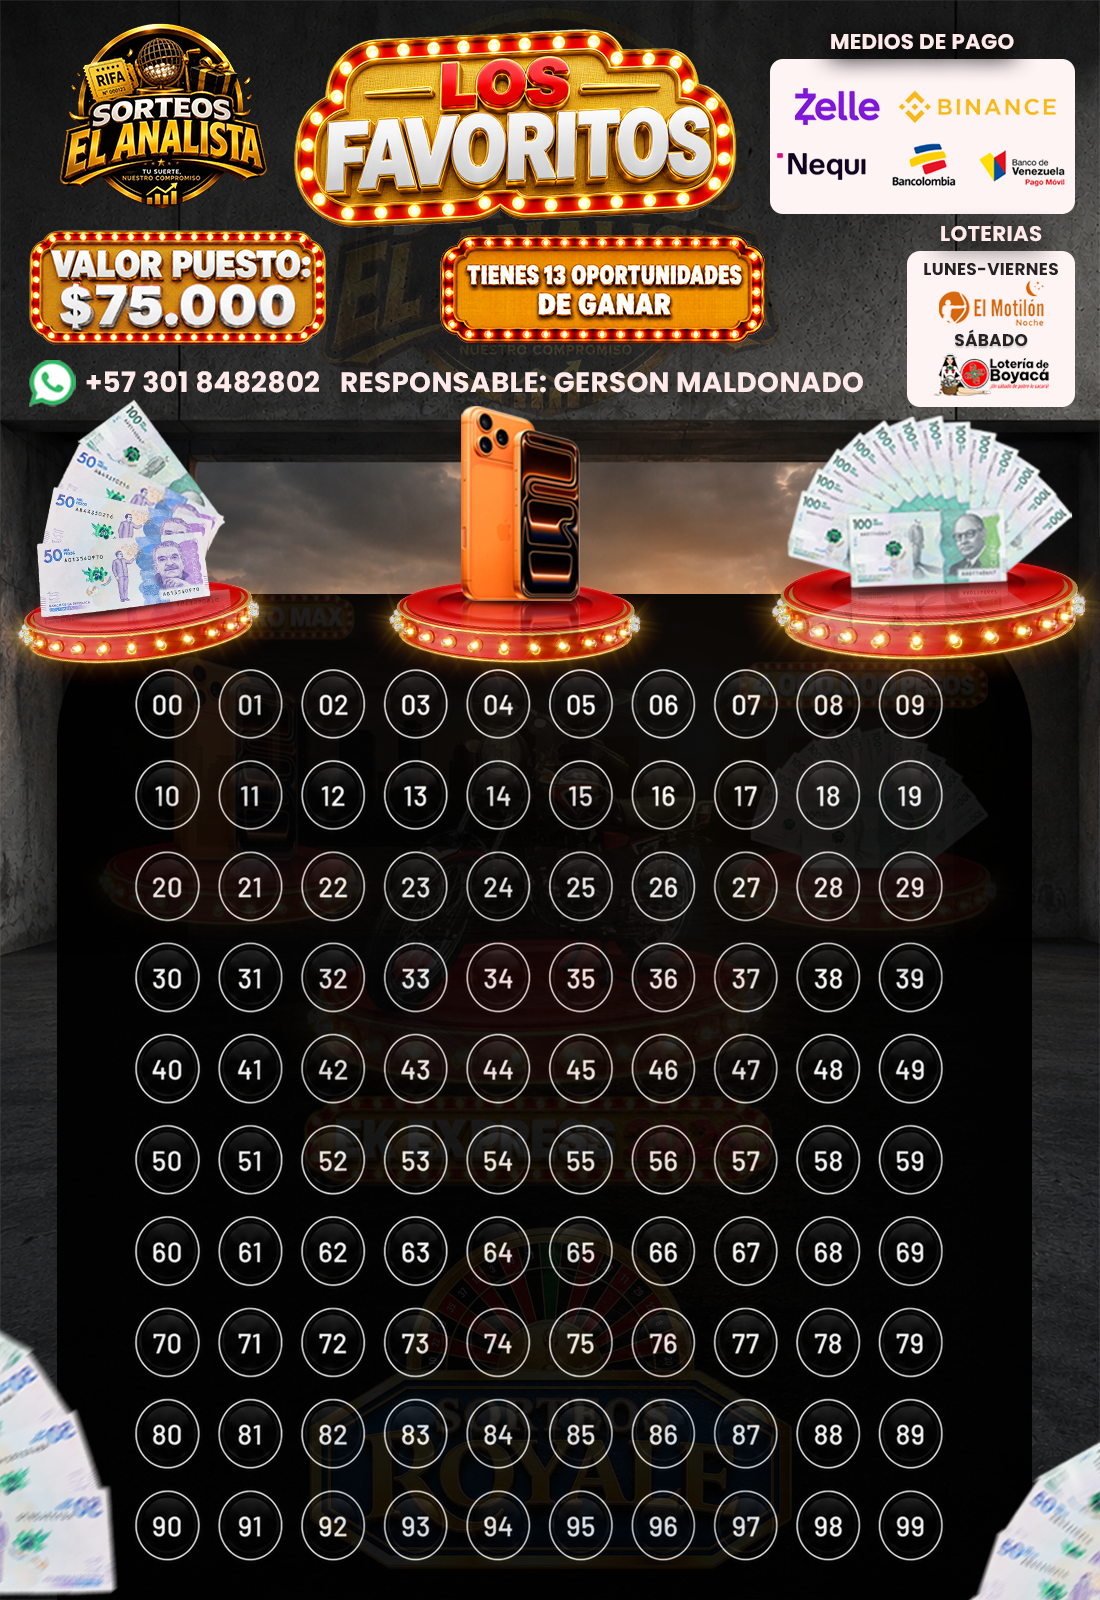
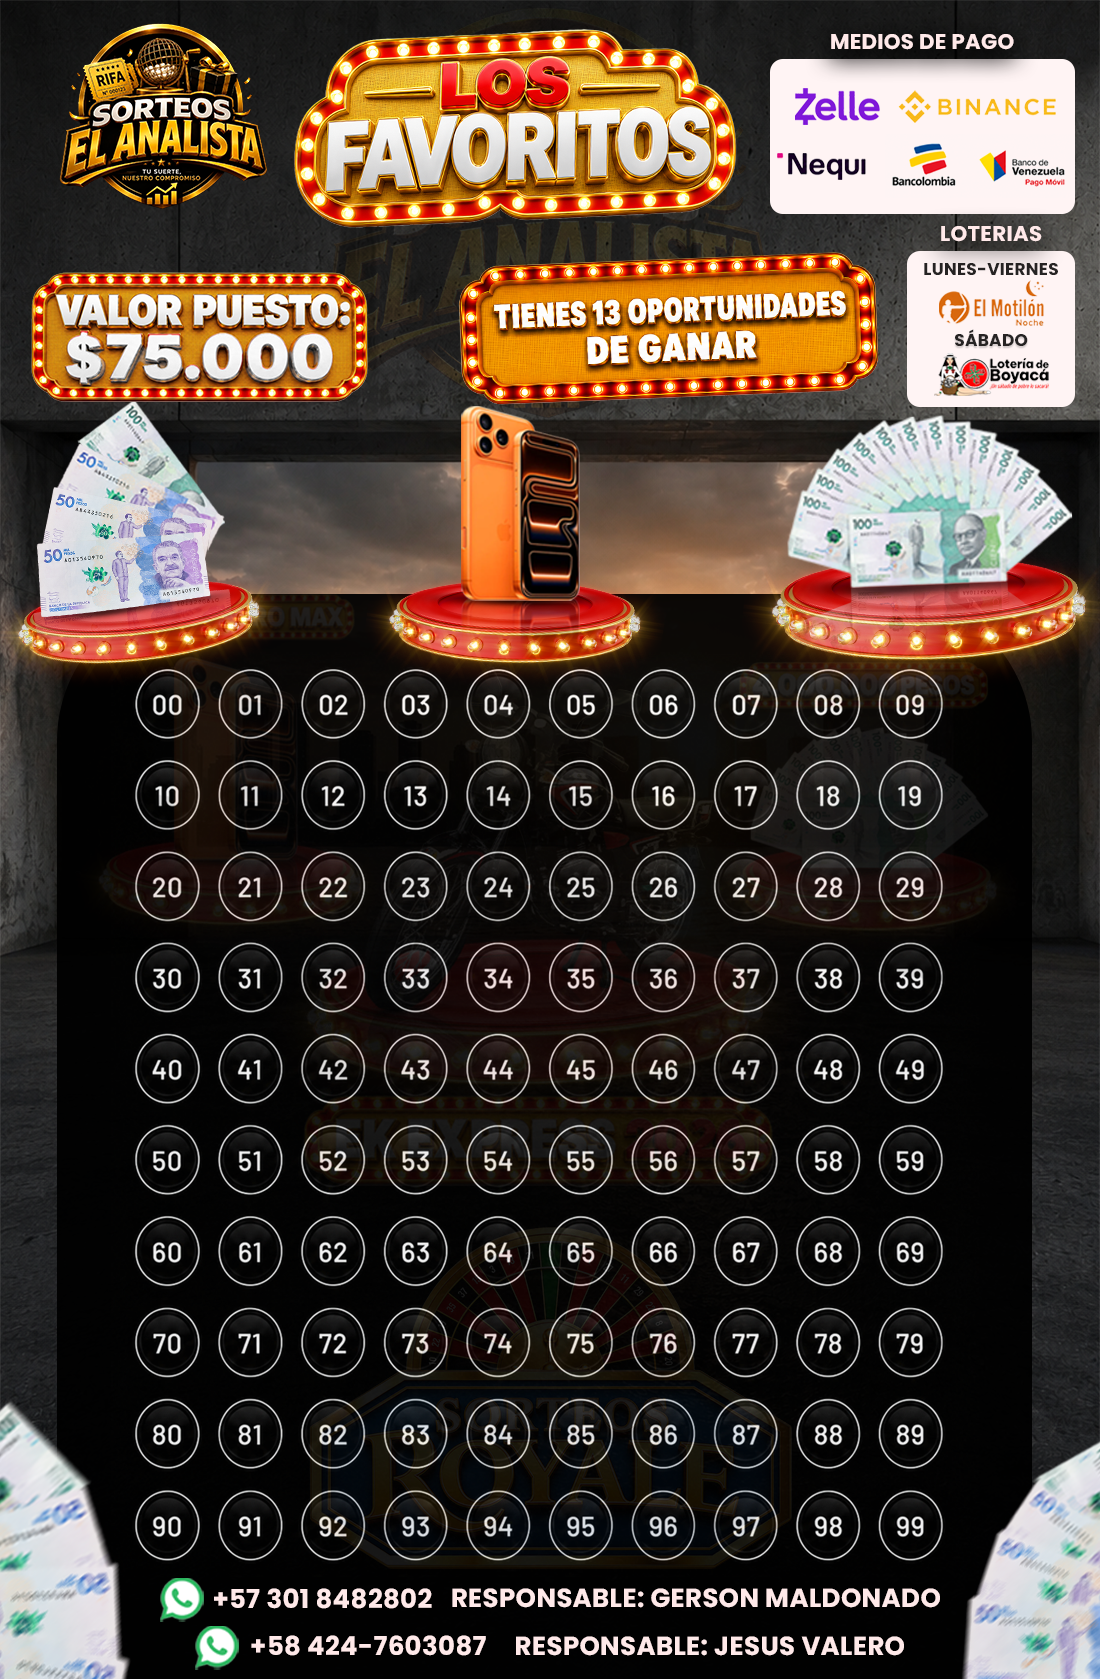
Cartón con plantilla oficial, filtro por estado y envío por WhatsApp del comprobante
- Plantilla nueva del cartón (numeros.png) con el número visible encima del
  círculo rojo en los puestos ocupados y leyenda sin contactos duplicados.
- Filtro de participantes por estado (chips con conteos + listado agrupado)
  que además resalta el cartón y filtra el historial de boletos.
- Botón ENVIAR POR WHATSAPP en el boleto: se activa al generar el comprobante,
  redirige al teléfono registrado con el mensaje oficial y adjunta el PNG.

🤖 Generated with Codebuff

diff --git a/src/components/rifa/FiltroEstados.tsx b/src/components/rifa/FiltroEstados.tsx
@@ -1,0 +1,146 @@
+import { useMemo } from "react";
+import { pad2, type EstadoBoleto } from "@/lib/rifa";
+import type { Fila } from "@/lib/fila";
+import { cn } from "@/lib/utils";
+
+export type FiltroEstado = EstadoBoleto | "TODOS";
+
+export const ESTADOS: EstadoBoleto[] = [
+  "DISPONIBLE",
+  "APARTADO",
+  "PRIMER ABONO",
+  "PRIMER TRAMO COMPLETADO",
+  "PAGADO",
+];
+
+const chipActivo: Record<EstadoBoleto, string> = {
+  DISPONIBLE: "border-white bg-white/15 text-white",
+  APARTADO: "border-sky-400 bg-sky-400/25 text-sky-200",
+  "PRIMER ABONO": "border-gold bg-gold-plate text-primary-foreground",
+  "PRIMER TRAMO COMPLETADO": "border-orange-400 bg-orange-400/25 text-orange-200",
+  PAGADO: "border-estado-pagado bg-estado-pagado/25 text-estado-pagado",
+};
+
+const chipInactivo: Record<EstadoBoleto, string> = {
+  DISPONIBLE: "border-white/40 bg-black/40 text-white/75 hover:border-white hover:text-white",
+  APARTADO:
+    "border-sky-400/50 bg-sky-400/8 text-sky-300/80 hover:border-sky-400 hover:text-sky-200",
+  "PRIMER ABONO": "border-gold/60 bg-gold/10 text-gold/85 hover:border-gold hover:text-gold",
+  "PRIMER TRAMO COMPLETADO":
+    "border-orange-400/50 bg-orange-400/8 text-orange-300/80 hover:border-orange-400 hover:text-orange-200",
+  PAGADO:
+    "border-estado-pagado/50 bg-estado-pagado/8 text-estado-pagado/80 hover:border-estado-pagado hover:text-estado-pagado",
+};
+
+const chipNumero: Record<EstadoBoleto, string> = {
+  DISPONIBLE: "border-white/50 text-white/80",
+  APARTADO: "border-sky-400/60 text-sky-300",
+  "PRIMER ABONO": "border-gold/70 text-gold",
+  "PRIMER TRAMO COMPLETADO": "border-orange-400/60 text-orange-300",
+  PAGADO: "border-estado-pagado/70 text-estado-pagado",
+};
+
+export function FiltroEstados({
+  filas,
+  filtro,
+  onChange,
+}: {
+  filas: Fila[];
+  filtro: FiltroEstado;
+  onChange: (f: FiltroEstado) => void;
+}) {
+  const conteos = useMemo(() => {
+    const c: Record<EstadoBoleto, number> = {
+      DISPONIBLE: 100 - filas.length,
+      APARTADO: 0,
+      "PRIMER ABONO": 0,
+      "PRIMER TRAMO COMPLETADO": 0,
+      PAGADO: 0,
+    };
+    for (const f of filas) c[f.resumen.estado] += 1;
+    return c;
+  }, [filas]);
+
+  const listado = useMemo(() => {
+    const seleccion = filtro === "TODOS" ? filas : filas.filter((f) => f.resumen.estado === filtro);
+    const porNombre = new Map<string, Fila[]>();
+    for (const f of seleccion) {
+      const arr = porNombre.get(f.boleto.nombre) ?? [];
+      arr.push(f);
+      porNombre.set(f.boleto.nombre, arr);
+    }
+    return [...porNombre.entries()].sort((a, b) => a[0].localeCompare(b[0], "es"));
+  }, [filas, filtro]);
+
+  return (
+    <div className="rounded-lg border border-border/70 bg-card/80 p-3 shadow-sm">
+      <p className="text-[10px] font-bold tracking-widest text-muted-foreground">
+        FILTRAR PARTICIPANTES POR ESTADO
+      </p>
+
+      <div className="mt-2 flex flex-wrap gap-1.5">
+        <button
+          type="button"
+          onClick={() => onChange("TODOS")}
+          aria-pressed={filtro === "TODOS"}
+          className={cn(
+            "rounded-full border px-2.5 py-1 text-[11px] font-bold tracking-wide transition-colors",
+            "focus-visible:ring-2 focus-visible:ring-ring focus-visible:outline-none",
+            filtro === "TODOS"
+              ? "border-gold bg-gold/20 text-gold"
+              : "border-border/70 bg-black/30 text-muted-foreground hover:border-gold/60 hover:text-gold",
+          )}
+        >
+          TODOS
+        </button>
+        {ESTADOS.map((e) => (
+          <button
+            key={e}
+            type="button"
+            onClick={() => onChange(e)}
+            aria-pressed={filtro === e}
+            className={cn(
+              "rounded-full border px-2.5 py-1 text-[11px] font-bold tracking-wide transition-colors",
+              "focus-visible:ring-2 focus-visible:ring-ring focus-visible:outline-none",
+              filtro === e ? chipActivo[e] : chipInactivo[e],
+            )}
+          >
+            {e} ({conteos[e]})
+          </button>
+        ))}
+      </div>
+
+      <div className="mt-3 max-h-72 space-y-1.5 overflow-y-auto pr-1">
+        {listado.length === 0 ? (
+          <p className="rounded-md bg-black/25 px-2 py-3 text-center text-xs text-muted-foreground">
+            No hay participantes con este estado.
+          </p>
+        ) : (
+          listado.map(([nombre, fs]) => (
+            <div
+              key={nombre}
+              className="flex items-baseline justify-between gap-2 rounded-md bg-black/30 px-2 py-1.5"
+            >
+              <span className="truncate text-xs font-bold">{nombre}</span>
+              <span className="flex flex-wrap justify-end gap-1">
+                {fs
+                  .sort((a, b) => a.boleto.numero - b.boleto.numero)
+                  .map((f) => (
+                    <span
+                      key={f.boleto.id}
+                      className={cn(
+                        "rounded border px-1 py-0.5 text-[10px] font-black tabular-nums",
+                        chipNumero[f.resumen.estado],
+                      )}
+                    >
+                      {pad2(f.boleto.numero)}
+                    </span>
+                  ))}
+              </span>
+            </div>
+          ))
+        )}
+      </div>
+    </div>
+  );
+}

diff --git a/src/components/rifa/BoletoDialog.tsx b/src/components/rifa/BoletoDialog.tsx
@@ -44,6 +44,28 @@ type Props = {
   usuario?: string;
 };
 
+/** Mensaje oficial de bienvenida por WhatsApp. `__________` se reemplaza por el nombre. */
+function mensajeWhatsApp(nombre: string) {
+  return `🎉 ¡Mucha suerte, ${nombre} ! 🍀
+
+Gracias por escoger tu número en Sorteos El Analista. 🙌🔥
+
+Ya tu número queda registrado ✅
+Te adjunto la imagen como comprobante de tu participación.
+
+🍀 ¡Muchísima suerte y que ese número sea el ganador! 🏆🎉
+
+¡Gracias por confiar en nosotros! ❤`;
+}
+
+function IconoWhatsApp({ className }: { className?: string }) {
+  return (
+    <svg viewBox="0 0 24 24" fill="currentColor" className={className} aria-hidden="true">
+      <path d="M17.472 14.382c-.297-.149-1.758-.867-2.03-.967-.273-.099-.471-.148-.67.15-.197.297-.767.966-.94 1.164-.173.199-.347.223-.644.075-.297-.15-1.255-.463-2.39-1.475-.883-.788-1.48-1.761-1.653-2.059-.173-.297-.018-.458.13-.606.134-.133.298-.347.446-.52.149-.174.198-.298.298-.497.099-.198.05-.371-.025-.52-.075-.149-.669-1.612-.916-2.207-.242-.579-.487-.5-.669-.51-.173-.008-.371-.01-.57-.01-.198 0-.52.074-.792.372-.272.297-1.04 1.016-1.04 2.479 0 1.462 1.065 2.875 1.213 3.074.149.198 2.096 3.2 5.077 4.487.709.306 1.262.489 1.694.625.712.227 1.36.195 1.871.118.571-.085 1.758-.719 2.006-1.413.248-.694.248-1.289.173-1.413-.074-.124-.272-.198-.57-.347m-5.421 7.403h-.004a9.87 9.87 0 01-5.031-1.378l-.361-.214-3.741.982.998-3.648-.235-.374a9.86 9.86 0 01-1.51-5.26c.001-5.45 4.436-9.884 9.888-9.884 2.64 0 5.122 1.03 6.988 2.898a9.825 9.825 0 012.893 6.994c-.003 5.45-4.437 9.884-9.885 9.884m8.413-18.297A11.815 11.815 0 0012.05 0C5.495 0 .16 5.335.157 11.892c0 2.096.547 4.142 1.588 5.945L.057 24l6.305-1.654a11.882 11.882 0 005.683 1.448h.005c6.554 0 11.89-5.335 11.893-11.893a11.821 11.821 0 00-3.48-8.413Z" />
+    </svg>
+  );
+}
+
 function TramoBarra({
   titulo,
   valor,
@@ -278,6 +300,46 @@ export function BoletoDialog({ numero, fila, onClose, onChanged, usuario }: Prop
     } catch {
       /* cancelado por el usuario */
     }
+  };
+
+  /** Envía el comprobante + mensaje oficial por WhatsApp al teléfono registrado. */
+  const whatsapp = async () => {
+    const tel = (telefono || boleto?.telefono || "").replace(/\D/g, "");
+    if (!tel) {
+      toast.error("Registra el teléfono del participante para enviar por WhatsApp");
+      return;
+    }
+    const nombreFinal = (nombre || boleto?.nombre || "").trim();
+    if (!nombreFinal) {
+      toast.error("Escribe el nombre del participante");
+      return;
+    }
+    const mensaje = mensajeWhatsApp(nombreFinal);
+    try {
+      const blob = await comprobanteBlob(datosComprobante);
+      const file = new File(
+        [blob],
+        nombreArchivo({ numero: datosComprobante.numero, nombre: datosComprobante.nombre }),
+        { type: "image/png" },
+      );
+      // En móvil, el share nativo adjunta la imagen y WhatsApp aparece en la hoja.
+      if (navigator.canShare?.({ files: [file] })) {
+        try {
+          await navigator.share({
+            files: [file],
+            text: mensaje,
+            title: `Boleto ${pad2(datosComprobante.numero)}`,
+          });
+          return;
+        } catch (e) {
+          if ((e as Error)?.name === "AbortError") return; // cancelado por el usuario
+        }
+      }
+    } catch {
+      /* si falla el comprobante, se abre WhatsApp igual con el mensaje */
+    }
+    // Escritorio: abre el chat del número con el mensaje ya escrito.
+    window.open(`https://wa.me/${tel}?text=${encodeURIComponent(mensaje)}`, "_blank");
   };
 
   return (
@@ -529,6 +591,20 @@ export function BoletoDialog({ numero, fila, onClose, onChanged, usuario }: Prop
                     <Share2 /> COMPARTIR
                   </Button>
                 </div>
+                <Button
+                  onClick={whatsapp}
+                  disabled={!preview || !telefono.trim()}
+                  title={
+                    !preview
+                      ? "Genera primero el comprobante para activar el envío"
+                      : !telefono.trim()
+                        ? "Registra el teléfono del participante para enviar por WhatsApp"
+                        : "Enviar mensaje y comprobante por WhatsApp"
+                  }
+                  className="bg-[#25D366] text-black hover:bg-[#1fbd5a]"
+                >
+                  <IconoWhatsApp className="size-4" /> ENVIAR POR WHATSAPP
+                </Button>
               </div>
             </div>
           </div>

diff --git a/src/lib/carton.ts b/src/lib/carton.ts
@@ -2,12 +2,12 @@ import numerosAsset from "@/assets/numeros.png";
 import { pad2 } from "./rifa";
 
 /**
- * Carton publico 00-99 sobre la plantilla oficial (1100 x 1600).
+ * Carton publico 00-99 sobre la plantilla oficial (1100 x 1679).
  * Para el publico solo existen dos estados: DISPONIBLE u OCUPADO.
  * Cualquier numero apartado o con algun abono se marca OCUPADO.
  */
 const W = 1100;
-const ARTE_H = 1600;
+const ARTE_H = 1679;
 const LEYENDA_H = 190;
 const H = ARTE_H + LEYENDA_H;
 
@@ -63,49 +63,22 @@ function marcarOcupado(ctx: CanvasRenderingContext2D, n: number) {
   ctx.strokeStyle = "rgba(255,255,255,0.85)";
   ctx.stroke();
 
-  ctx.font = '900 34px Montserrat, "Arial Black", sans-serif';
+  // El numero del puesto va encima del circulo rojo.
   ctx.textAlign = "center";
   ctx.textBaseline = "middle";
+  ctx.font = '900 40px Montserrat, "Arial Black", sans-serif';
+  ctx.shadowColor = "rgba(0,0,0,0.6)";
+  ctx.shadowBlur = 5;
+  ctx.shadowOffsetY = 2;
   ctx.fillStyle = BLANCO;
-  ctx.fillText(pad2(n), x, y + 2);
+  ctx.fillText(pad2(n), x, y + 1);
+  ctx.shadowColor = "transparent";
+  ctx.shadowBlur = 0;
+  ctx.shadowOffsetY = 0;
 }
 
-const VERDE_WA = "#25d366";
-
-function iconoWhatsApp(ctx: CanvasRenderingContext2D, x: number, y: number, r = 15) {
-  ctx.beginPath();
-  ctx.arc(x, y, r, 0, Math.PI * 2);
-  ctx.fillStyle = VERDE_WA;
-  ctx.fill();
-  ctx.font = '900 15px Montserrat, "Arial Black", sans-serif';
-  ctx.textAlign = "center";
-  ctx.textBaseline = "middle";
-  ctx.fillStyle = BLANCO;
-  ctx.fillText("WA", x, y + 1);
-}
-
-function contacto(
-  ctx: CanvasRenderingContext2D,
-  x: number,
-  y: number,
-  numero: string,
-  nombre: string,
-) {
-  iconoWhatsApp(ctx, x, y);
-  ctx.textAlign = "left";
-  ctx.textBaseline = "middle";
-  ctx.font = '800 22px Montserrat, "Arial Black", sans-serif';
-  ctx.fillStyle = BLANCO;
-  ctx.fillText(numero, x + 24, y);
-  const wNum = ctx.measureText(numero).width;
-  ctx.font = '800 18px Montserrat, "Arial Black", sans-serif';
-  ctx.fillStyle = ORO;
-  ctx.fillText("  ·  RESPONSABLE: ", x + 24 + wNum, y);
-  const wLab = ctx.measureText("  ·  RESPONSABLE: ").width;
-  ctx.fillStyle = BLANCO;
-  ctx.fillText(nombre, x + 24 + wNum + wLab, y);
-}
-
+// Los contactos (WhatsApp + responsables) ya vienen en la plantilla oficial;
+// la banda inferior solo agrega la leyenda y el contador.
 function leyenda(ctx: CanvasRenderingContext2D, ocupados: number) {
   ctx.fillStyle = "#050508";
   ctx.fillRect(0, ARTE_H, W, LEYENDA_H);
@@ -149,9 +122,6 @@ function leyenda(ctx: CanvasRenderingContext2D, ocupados: number) {
   ctx.moveTo(36, ARTE_H + 84);
   ctx.lineTo(W - 36, ARTE_H + 84);
   ctx.stroke();
-
-  contacto(ctx, 60, ARTE_H + 120, "+57 301 8482802", "GERSON MALDONADO");
-  contacto(ctx, 60, ARTE_H + 162, "+58 424-7603087", "JESÚS VALERO");
 }
 
 export async function renderCarton(ocupados: Iterable<number>): Promise<HTMLCanvasElement> {

diff --git a/src/routes/index.tsx b/src/routes/index.tsx
@@ -9,6 +9,7 @@ import cartonAsset from "@/assets/numeros.png";
 import { Button } from "@/components/ui/button";
 import { Input } from "@/components/ui/input";
 import { CartonNumeros, Leyenda } from "@/components/rifa/CartonNumeros";
+import { FiltroEstados, type FiltroEstado } from "@/components/rifa/FiltroEstados";
 import { PanelEstadisticas } from "@/components/rifa/PanelEstadisticas";
 import { HistorialBoletos } from "@/components/rifa/HistorialBoletos";
 import { HistorialAuditoria } from "@/components/rifa/HistorialAuditoria";
@@ -46,6 +47,7 @@ function ControlDeBoletos() {
   const { usuario } = Route.useLoaderData();
   const [seleccion, setSeleccion] = useState<number | null>(null);
   const [busqueda, setBusqueda] = useState("");
+  const [filtroEstado, setFiltroEstado] = useState<FiltroEstado>("TODOS");
   const [descargando, setDescargando] = useState(false);
 
   const { data: boletos = [] } = useQuery({ queryKey: ["boletos"], queryFn: listarBoletos });
@@ -108,10 +110,31 @@ function ControlDeBoletos() {
     return s;
   }, [q, porNumero]);
 
-  const historial = useMemo(
-    () => (coincidencias ? filas.filter((f) => coincidencias.has(f.boleto.numero)) : filas),
-    [filas, coincidencias],
-  );
+  // Números del estado seleccionado (null = todos los estados).
+  const porEstado = useMemo(() => {
+    if (filtroEstado === "TODOS") return null;
+    const s = new Set<number>();
+    for (const f of filas) if (f.resumen.estado === filtroEstado) s.add(f.boleto.numero);
+    return s;
+  }, [filas, filtroEstado]);
+
+  // Resaltado del cartón: combina la búsqueda con el filtro por estado.
+  const resaltados = useMemo(() => {
+    if (!coincidencias && !porEstado) return null;
+    if (coincidencias && porEstado) {
+      const s = new Set<number>();
+      for (const n of coincidencias) if (porEstado.has(n)) s.add(n);
+      return s;
+    }
+    return coincidencias ?? porEstado;
+  }, [coincidencias, porEstado]);
+
+  const historial = useMemo(() => {
+    let fs = filas;
+    if (coincidencias) fs = fs.filter((f) => coincidencias.has(f.boleto.numero));
+    if (porEstado) fs = fs.filter((f) => porEstado.has(f.boleto.numero));
+    return fs;
+  }, [filas, coincidencias, porEstado]);
 
   const onSalir = async () => {
     await queryClient.cancelQueries();
@@ -176,10 +199,11 @@ function ControlDeBoletos() {
             />
           </div>
           <Leyenda />
+          <FiltroEstados filas={filas} filtro={filtroEstado} onChange={setFiltroEstado} />
         </aside>
 
         <section className="rounded-xl border border-gold/40 bg-black/45 p-3 sm:p-5">
-          <CartonNumeros filas={porNumero} resaltados={coincidencias} onSelect={setSeleccion} />
+          <CartonNumeros filas={porNumero} resaltados={resaltados} onSelect={setSeleccion} />
         </section>
       </div>
 
